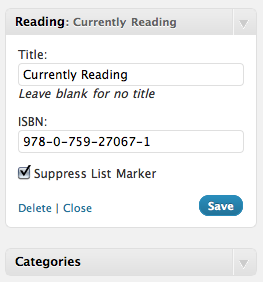
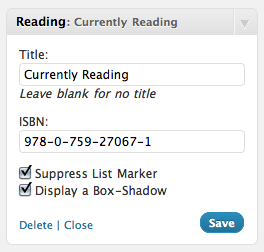
Version 3.1... Now with Drop Shadows! (Finally on par with the non-widget-ised version...)
git-svn-id: https://plugins.svn.wordpress.org/currently-reading/trunk@338473 b8457f37-d9ea-0310-8a92-e5e31aec5664

diff --git a/CurrentlyReading.php b/CurrentlyReading.php
@@ -4,7 +4,7 @@
     Plugin URI: http://www.damn.org.za/blog/CurrentlyReading
     Description: Display a Currently Reading widget using an image from (and linking to) the Google Books Website
     Author: Eugéne Roux
-    Version: 3
+    Version: 3.1
     Author URI: http://damn.org.za/
  */
 
@@ -18,6 +18,7 @@ class CurrentlyReading extends WP_Widget {
         $this->WP_Widget( 'reading', __( 'Reading', 'reading_widget' ), $widget_ops );
         $this->widget_defaults = array(
             'internalcss' => true,
+            'boxshadow' => true,
         );
     }
 
@@ -31,6 +32,7 @@ class CurrentlyReading extends WP_Widget {
 
         $title = apply_filters('widget_title', $instance['title']);
         $internalcss = $instance["internalcss"] ? true : false;
+        $boxshadow = $instance["boxshadow"] ? true : false;
 
         if ($instance['isbn'] != "") {      // No point in a "Currently Reading" if you aren't, is there?
 
@@ -42,17 +44,25 @@ class CurrentlyReading extends WP_Widget {
             $spacechars = array(' ', '-', '_');
             $myisbn = str_replace($spacechars, "", $instance['isbn']);
 
-            print "  <!-- ISBN: " . $instance['isbn'] . " -->\n";
-            if ( $internalcss ) {
-                print "  <ul style='list-style: none'>\n";
+            print("\n\t<!-- ISBN: " . $instance['isbn'] . " -->\n");
+            if ( $internalcss || $boxshadow ) {
+                print("\t\t<ul style='margin: 1em;");
+                if ( $internalcss ) {
+                    print(" list-style: none;");
+                }
+                print("'>\n");
             } else {
-                print "  <ul>\n";
+                print("\t\t<ul>\n");
             }
-            print"    <li>\n";
-            print "      <a href='http://books.google.com/books?vid=ISBN$myisbn'>";
-            print "<img src='http://books.google.com/books?vid=ISBN$myisbn&printsec=frontcover&img=1&zoom=1' ";
-            print "alt='ISBN: " . $instance['isbn'] . "' title='ISBN: " . $instance['isbn'] . "'/></a>\n";
-            print "    </li>\n  </ul>\n";
+            print( "\t\t\t<li>\n");
+            print( "\t\t\t\t<a href='http://books.google.com/books?vid=ISBN$myisbn'>");
+            print( "<img " );
+            if ( $boxshadow ) {
+                print("style='-moz-box-shadow: #CCC 5px 5px 5px; -webkit-box-shadow: #CCC 5px 5px 5px; -khtml-box-shadow: #CCC 5px 5px 5px; box-shadow: #CCC 5px 5px 5px;' ");
+            }
+            print( "src='http://books.google.com/books?vid=ISBN$myisbn&printsec=frontcover&img=1&zoom=1' ");
+            print( "alt='ISBN: " . $instance['isbn'] . "' title='ISBN: " . $instance['isbn'] . "'/></a>\n");
+            print( "\t\t\t</li>\n\t\t</ul>\n");
 
             echo $after_widget;
         }
@@ -66,6 +76,7 @@ class CurrentlyReading extends WP_Widget {
         $instance['title'] = strip_tags( $new_instance['title'] );
         $instance['isbn'] = strip_tags( $new_instance['isbn'] );
         $instance['internalcss'] = $new_instance['internalcss'] ? 1 : 0;
+        $instance['boxshadow'] = $new_instance['boxshadow'] ? 1 : 0;
         return $instance;
     }
 
@@ -79,6 +90,7 @@ class CurrentlyReading extends WP_Widget {
         $title = esc_attr( $instance['title'] );
         $isbn = esc_attr( $instance['isbn'] );
         $internalcss = $instance['internalcss'] ? "checked='checked'" : "";
+        $boxshadow = $instance['boxshadow'] ? "checked='checked'" : "";
 
         print( "\t<p>\n\t\t<label for='" . $this->get_field_id("title") . "'>" ); _e( "Title:" ); 
         print( "\n\t\t\t<input class='widefat' id='" . $this->get_field_id('title') . "' name='" );
@@ -89,9 +101,14 @@ class CurrentlyReading extends WP_Widget {
         print( "\n\t\t\t<input class='widefat' id='" . $this->get_field_id("isbn") . "' name='" );
         print( $this->get_field_name("isbn") . "' type='text' value='" . $isbn . "' />\n\t\t</label>\n\t</p>\n" );
 
-        print( "\t<p>\n\t\t<input class='checkbox' type='checkbox' " . $internalcss );
+        print( "\t<p>\n" );
+        print( "\t\t<input class='checkbox' type='checkbox' " . $internalcss );
         print( " id='" . $this->get_field_id("internalcss") . "' name='" . $this->get_field_name("internalcss") . "'/>\n" );
         print( "\t\t<label for='" . $this->get_field_id("internalcss") . "'>" ); _e( "Suppress List Marker" );
+        print( "\n\t\t<br />\n" );
+        print( "\t\t<input class='checkbox' type='checkbox' " . $boxshadow );
+        print( " id='" . $this->get_field_id("boxshadow") . "' name='" . $this->get_field_name("boxshadow") . "'/>\n" );
+        print( "\t\t<label for='" . $this->get_field_id("boxshadow") . "'>" ); _e( "Display a Box-Shadow" );
         print( "</label>\n\t</p>\n" );
 
     }
